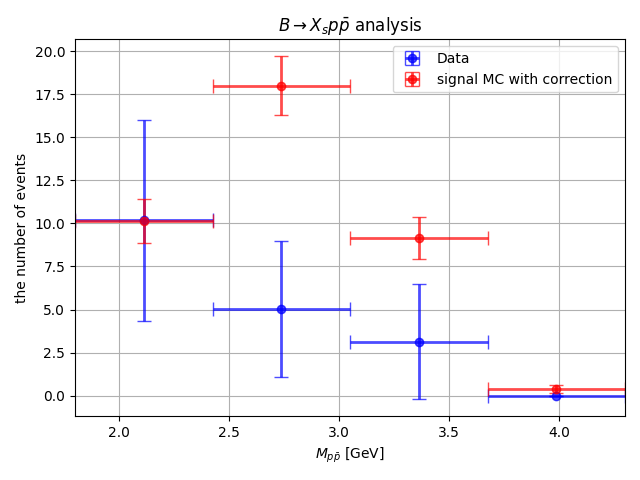
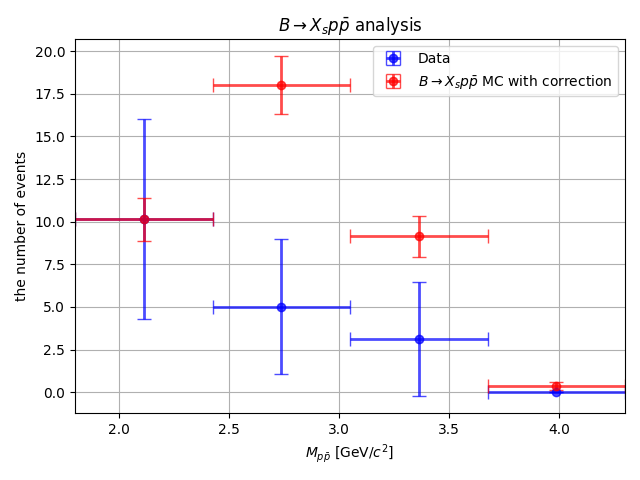
change plot label

diff --git a/src/systematic_KKLKL/ReadK0KLKLinfo_r_sp_NEW.c b/src/systematic_KKLKL/ReadK0KLKLinfo_r_sp_NEW.c
@@ -89,15 +89,15 @@ std::vector<Information> Infos_PHSP;
 std::vector<Information> Infos_PHSP_another;
 std::vector<Information> Infos_phi;
 
-TH2D* N_evt = new TH2D("N_evt", ";s_{max};s_{min}", NBin, smax_min, smax_max, NBin, smin_min, smin_max);
+TH2D* N_evt = new TH2D("N_evt", ";s_{max} [(GeV/c^{2})^{2}];s_{min} [(GeV/c^{2})^{2}];arbitrary unit", NBin, smax_min, smax_max, NBin, smin_min, smin_max);
 TH2D* N_evt_another = new TH2D("N_evt_another", ";max M_{K_{s}^{0}K_{L}^{0}};min M_{K_{s}^{0}K_{L}^{0}}", NBin, smax_min, smax_max, NBin, smin_min, smin_max);
 
-TH2D* Prob_PHSP = new TH2D("Prob_PHSP", ";s_{max};s_{min}", NBin, smax_min, smax_max, NBin, smin_min, smin_max);
+TH2D* Prob_PHSP = new TH2D("Prob_PHSP", ";s_{max} [(GeV/c^{2})^{2}];s_{min} [(GeV/c^{2})^{2}];arbitrary unit", NBin, smax_min, smax_max, NBin, smin_min, smin_max);
 TH2D* Prob_PHSP_another = new TH2D("Prob_PHSP_another", ";max M_{K_{s}^{0}K_{L}^{0}};min M_{K_{s}^{0}K_{L}^{0}}", NBin, smax_min, smax_max, NBin, smin_min, smin_max);
 
 TH2D* Prob_phi = new TH2D("Prob_phi", ";max M_{K_{s}^{0}K_{L}^{0}};min M_{K_{s}^{0}K_{L}^{0}}", NBin, smax_min, smax_max, NBin, smin_min, smin_max);
 
-TH2D* Prob = new TH2D("Prob", ";s_{max};s_{min}", NBin, smax_min, smax_max, NBin, smin_min, smin_max);
+TH2D* Prob = new TH2D("Prob", ";s_{max} [(GeV/c^{2})^{2}];s_{min} [(GeV/c^{2})^{2}];arbitrary unit", NBin, smax_min, smax_max, NBin, smin_min, smin_max);
 
 TH1D* Prob_1D_sqrt_smin = new TH1D("Prob_1D_sqrt_smin", ";#sqrt{s_{min}};", 20, 1.0, 3.3);
 TH1D* Prob_1D_sqrt_smax = new TH1D("Prob_1D_sqrt_smax", ";#sqrt{s_{max}};", 20, 3.1, 4.8);

diff --git a/src/systematic_KKLKL/ReadKKLKLinfo_r_sp.c b/src/systematic_KKLKL/ReadKKLKLinfo_r_sp.c
@@ -103,14 +103,14 @@ typedef struct info {
 
 std::vector<Information> Infos;
 
-TH2D* N_evt = new TH2D("N_evt", ";s13;s23", NBin, s13_min, s13_max, NBin, s23_min, s23_max);
+TH2D* N_evt = new TH2D("N_evt", ";s13 [(GeV/c^{2})^{2}];s23 [(GeV/c^{2})^{2}];arbitrary unit", NBin, s13_min, s13_max, NBin, s23_min, s23_max);
 TH2D* N_evt_conv = new TH2D("N_evt_conv", ";s12;s13", NBin, s12_min, s12_max, NBin, s13_min, s13_max);
 
 TH2D* Prob_PHSP = new TH2D("Prob_PHSP", ";s13;s23", NBin, s13_min, s13_max, NBin, s23_min, s23_max);
 TH2D* Prob_PHSP_conv = new TH2D("Prob_PHSP_conv", ";s12;s13", NBin, s12_min, s12_max, NBin, s13_min, s13_max);
 
-TH2D* Prob = new TH2D("Prob", ";s13;s23", NBin, s13_min, s13_max, NBin, s23_min, s23_max);
-TH2D* Prob_conv = new TH2D("Prob_conv", ";s12;s13", NBin, s12_min, s12_max, NBin, s13_min, s13_max);
+TH2D* Prob = new TH2D("Prob", ";s13 [(GeV/c^{2})^{2}];s23 [(GeV/c^{2})^{2}];arbitrary unit", NBin, s13_min, s13_max, NBin, s23_min, s23_max);
+TH2D* Prob_conv = new TH2D("Prob_conv", ";s12 [(GeV/c^{2})^{2}];s13 [(GeV/c^{2})^{2}];arbitrary unit", NBin, s12_min, s12_max, NBin, s13_min, s13_max);
 
 TH1D* Prob_1D_s12 = new TH1D("Prob_1D_s12", ";m_{K_{S}K_{S}};", 32, 4.77 - 0.06 * 63, 4.77 + 0.06);
 TH1D* Prob_1D_s13 = new TH1D("Prob_1D_s13", ";m_{K^{+}K_{S},low};", 29, 0.99, 3.74);

diff --git a/src/python/draw_non_physical_PID.py b/src/python/draw_non_physical_PID.py
@@ -2,7 +2,7 @@ import matplotlib.pyplot as plt
 import numpy as np
 
 # Data
-x = np.array([0, 1, 2, 3, 4, 5, 6, 7, 8, 9, 10, 11, 12, 13, 14])
+x = np.array([1, 2, 3, 4, 5, 6, 7, 8, 9, 10, 11, 12, 13, 14, 15])
 x_error = np.array([0.500000, 0.500000, 0.500000, 0.500000, 0.500000, 0.500000, 0.500000, 0.500000, 0.500000, 0.500000, 0.500000, 0.500000, 0.500000, 0.500000, 0.500000])
 y1 = np.array([0.002333, 0.001047, 0.003299, 0.000000, 0.000000, 0.000000, 0.000000, 0.002058, 0.004117, 0.000000, 0.004250, 0.003194, 0.000386, 0.005024, 0.008507])  # data
 y1_error = np.array([0.001099, 0.000609, 0.003303, 0.000000, 0.000000, 0.000000, 0.000000, 0.002061, 0.004122, 0.000000, 0.001252, 0.001149, 0.000386, 0.002316, 0.005087])
@@ -13,15 +13,15 @@ offset = 0.0
 # Plotting the histograms as points with offset and x-error bars
 plt.errorbar(x, y1, xerr=x_error, yerr=y1_error, fmt='bo', label='', capsize=5, elinewidth=2, alpha=0.7)
 
-plt.title(r'ratio of event with non-physical PID correction')
-plt.xlabel(r'index')
+plt.title(r'ratio of event with unphysical PID correction')
+plt.xlabel(r'bin index')
 plt.ylabel('the ratio of event')
 
 # Adding a grid
 plt.grid(True)
 
 # Setting x-axis limits
-plt.xlim(-0.5, 14.5)
+plt.xlim(0.5, 15.5)
 
 plt.tight_layout()
 plt.show()

diff --git a/src/systematic_KKLKL/ReadK0KLKLinfo_r_sp.c b/src/systematic_KKLKL/ReadK0KLKLinfo_r_sp.c
@@ -87,11 +87,11 @@ typedef struct info {
 
 std::vector<Information> Infos;
 
-TH2D* N_evt = new TH2D("N_evt", ";s_{max};s_{min}", NBin, smax_min, smax_max, NBin, smin_min, smin_max);
+TH2D* N_evt = new TH2D("N_evt", ";s_{max} [(GeV/c^{2})^{2}];s_{min} [(GeV/c^{2})^{2}];arbitrary unit", NBin, smax_min, smax_max, NBin, smin_min, smin_max);
 
-TH2D* Prob_PHSP = new TH2D("Prob_PHSP", ";s_{max};s_{min}", NBin, smax_min, smax_max, NBin, smin_min, smin_max);
+TH2D* Prob_PHSP = new TH2D("Prob_PHSP", ";s_{max} [(GeV/c^{2})^{2}];s_{min} [(GeV/c^{2})^{2}];arbitrary unit", NBin, smax_min, smax_max, NBin, smin_min, smin_max);
 
-TH2D* Prob = new TH2D("Prob", ";s_{max};s_{min}", NBin, smax_min, smax_max, NBin, smin_min, smin_max);
+TH2D* Prob = new TH2D("Prob", ";s_{max} [(GeV/c^{2})^{2}];s_{min} [(GeV/c^{2})^{2}];arbitrary unit", NBin, smax_min, smax_max, NBin, smin_min, smin_max);
 
 TH1D* Prob_1D_sqrt_smin = new TH1D("Prob_1D_sqrt_smin", ";#sqrt{s_{min}};", 20, 1.0, 3.3);
 TH1D* Prob_1D_sqrt_smax = new TH1D("Prob_1D_sqrt_smax", ";#sqrt{s_{max}};", 20, 3.1, 4.8);

diff --git a/src/systematic_Xnn/DrawNevt.py b/src/systematic_Xnn/DrawNevt.py
@@ -14,10 +14,10 @@ offset = 0.0
 
 # Plotting the histograms as points with offset and x-error bars
 plt.errorbar(x - offset, y1, xerr=x_error, yerr=y1_error, fmt='bo', label='Data', capsize=5, elinewidth=2, alpha=0.7)
-plt.errorbar(x + offset, y2, xerr=x_error, yerr=y2_error, fmt='ro', label='signal MC with correction', capsize=5, elinewidth=2, alpha=0.7)
+plt.errorbar(x + offset, y2, xerr=x_error, yerr=y2_error, fmt='ro', label=r'$B \rightarrow X_{s} p \bar{p}$ MC with correction', capsize=5, elinewidth=2, alpha=0.7)
 
 plt.title(r'$B \rightarrow X_{s} p \bar{p}$ analysis')
-plt.xlabel(r'$M_{p\bar{p}}$ [GeV]')
+plt.xlabel(r'$M_{p\bar{p}}$ [GeV/$c^{2}$]')
 plt.ylabel('the number of events')
 plt.legend()
 
